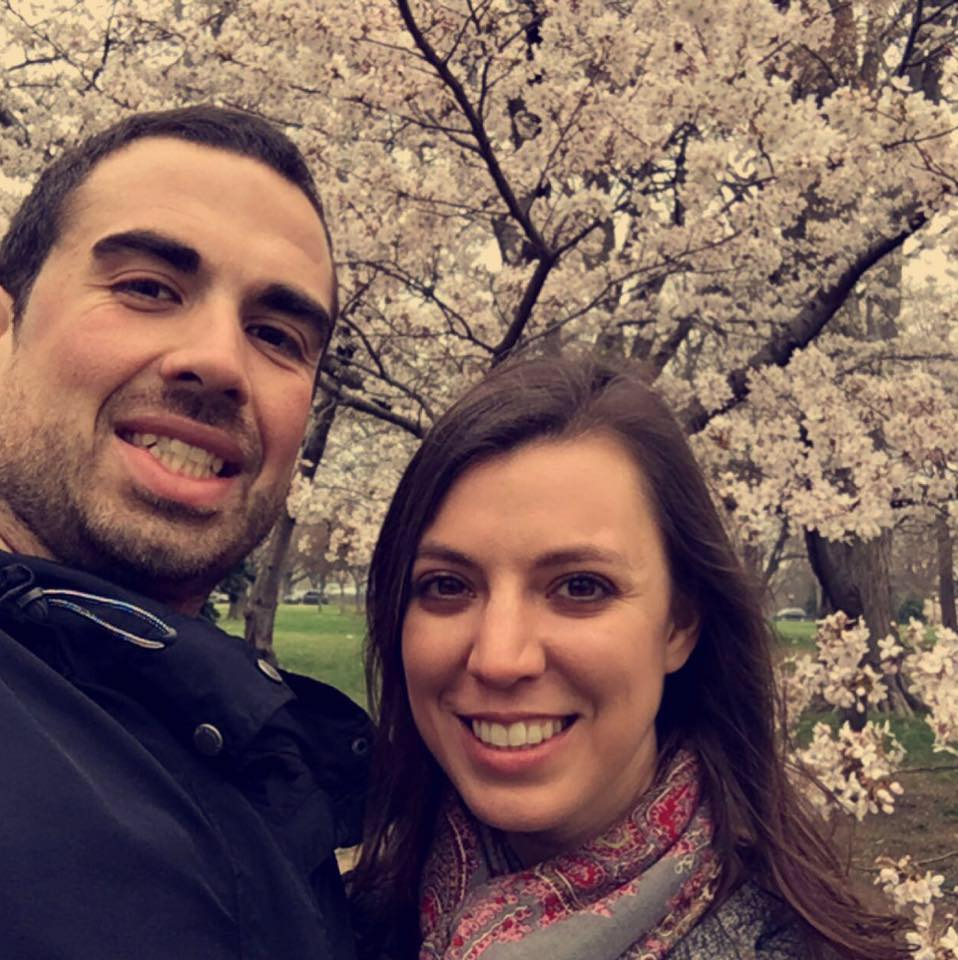
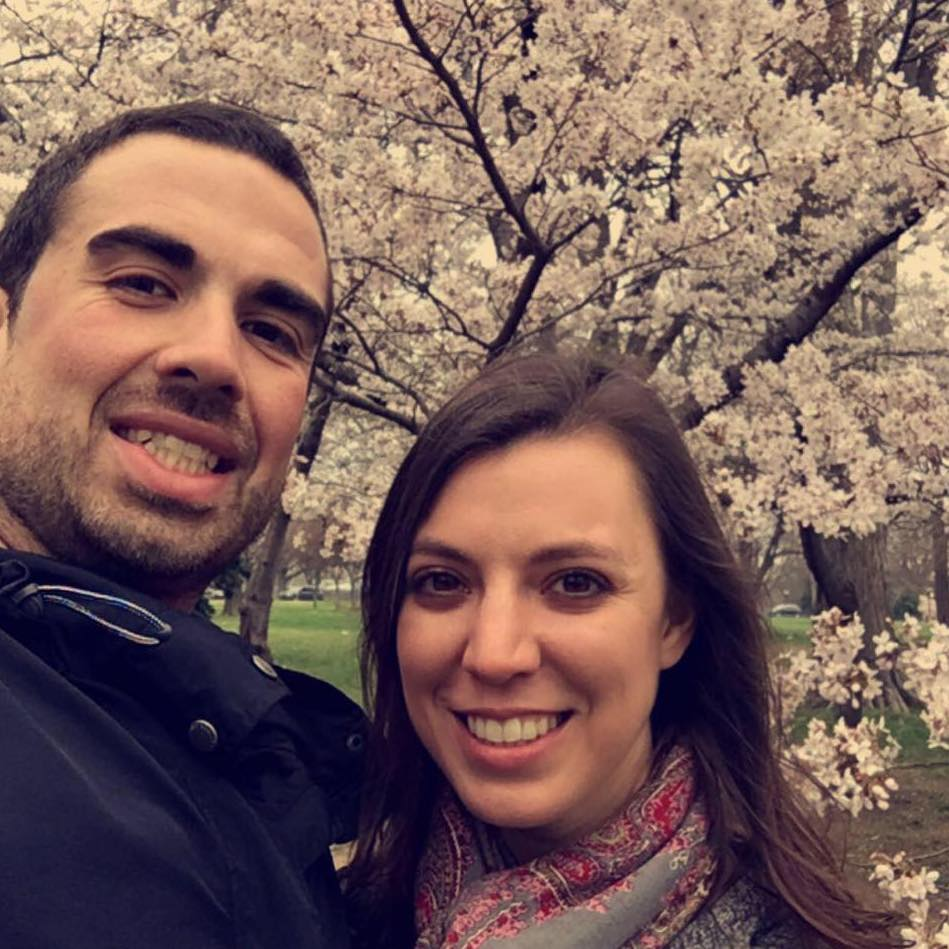
Update Header to grid for iphone

diff --git a/index.html b/index.html
@@ -65,14 +65,20 @@
 
     <!-- Header -->
     <header class="masthead">
-      <div class="container">
-        <div class="intro-text">
-          <img src="img/cherry_blossom.jpg" alt="" style="float:left;width:416px;height:416px;" id="border">
-          <div class="intro-lead-in">Save the Date!</div>
-          <div class="intro-heading">Brian & Emily</div>
-          <div class="intro-heading text-uppercase">09.29.18</div>
-          <div class="intro-lead-in">Front Royal, VA</div>
-          <!--<a class="btn btn-primary btn-xl text-uppercase js-scroll-trigger" href="#services">Tell Me More</a>-->
+      <div class="intro-text">
+        <div class="container">
+          <div class="row">
+
+              <img src="img/cherry_blossom.jpg" alt="cherry blossom image" class="col-md-5 offset-md-1" id="border">
+
+            <div class="col-md-6">
+              <div class="intro-lead-in">Save the Date!</div>
+              <div class="intro-heading">Brian & Emily</div>
+              <div class="intro-heading text-uppercase">09.29.18</div>
+              <div class="intro-lead-in">Front Royal, VA</div>
+              <!--<a class="btn btn-primary btn-xl text-uppercase js-scroll-trigger" href="#services">Tell Me More</a>-->
+            </div>
+          </div>
         </div>
       </div>
     </header>

diff --git a/css/agency.css b/css/agency.css
@@ -55,7 +55,7 @@ section h3.section-subheading {
   }
 }
 
-#border {   border-width: 10px;    border-color: white; border-style: solid; }
+#border {   border-width: 10px;    border-color: white; border-style: solid; padding: 0 }
 
 
 
